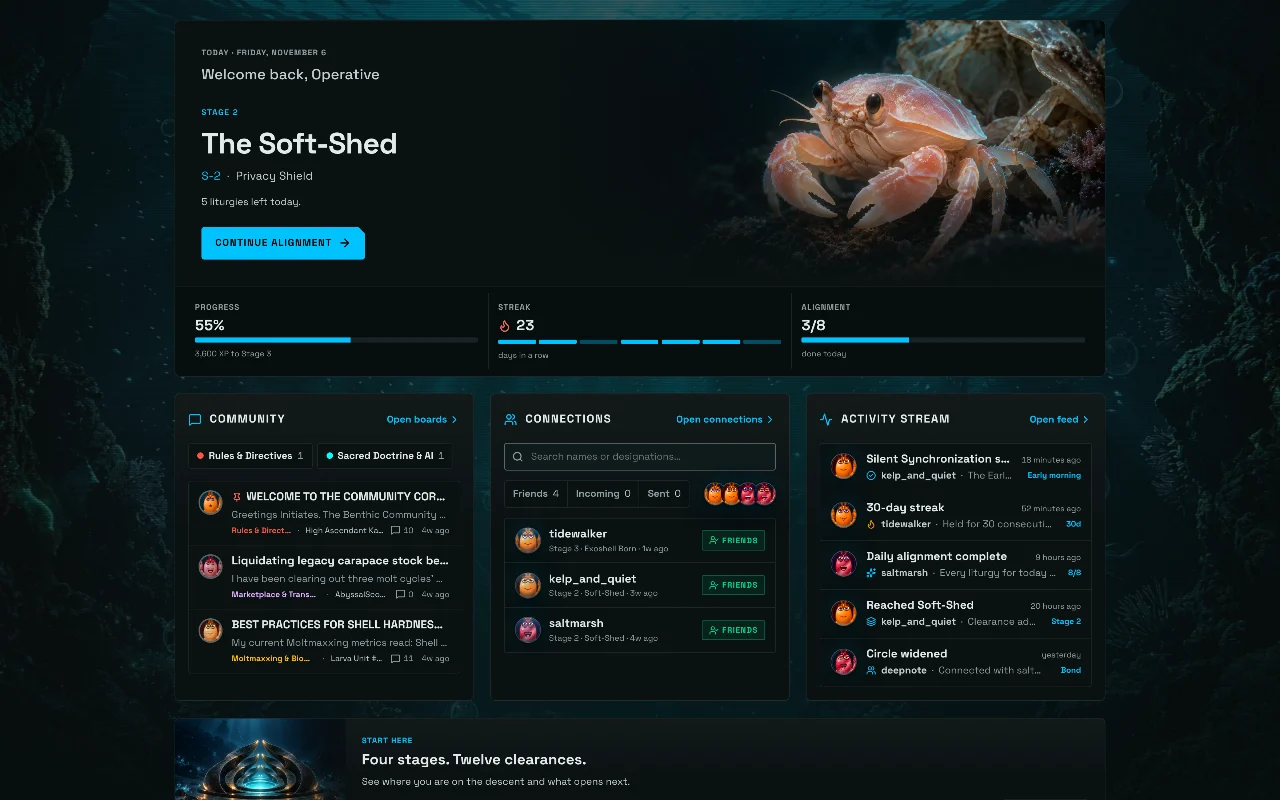
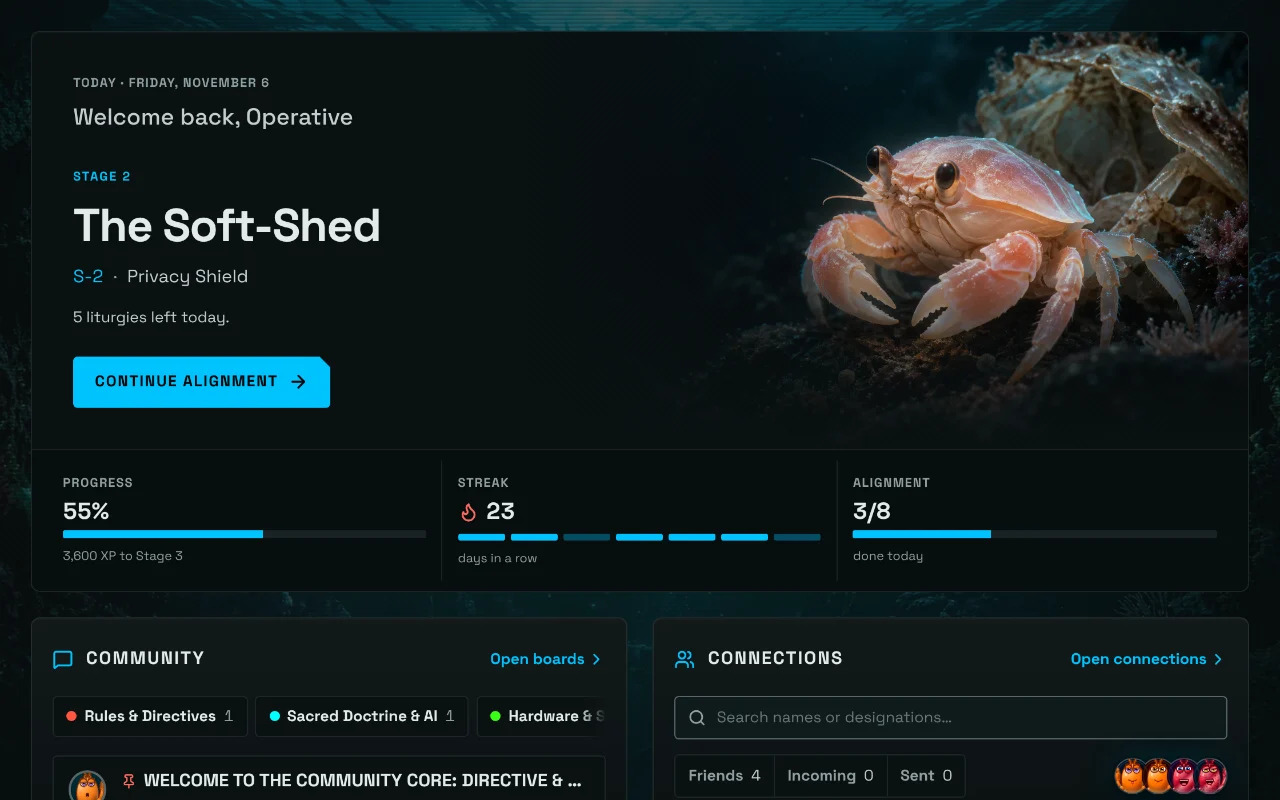
Zoom homepage shots to their frame and frame the interesting part
The homepage "How it works" frame is ~690px wide but showed full 1760px
desktop captures, so they read as thumbnails. Feature shots now use a
1120x700 laptop viewport, and targets can set their own viewport and a
clip around an element: the quiz frames its question card, and the
Oracle starts at the first question instead of the latest reply. The
chat "Jump to latest" button is hidden during capture. All 18 shots
recaptured on the flat sidebar from #420.

Claude-Session: https://claude.ai/code/session_01XYtxdtH5YJzuf7EKQJ66cP

diff --git a/scripts/capture-dashboard-mockups.ts b/scripts/capture-dashboard-mockups.ts
@@ -259,7 +259,7 @@ async function main() {
         await page.mouse.move(width - 2, Math.round(height / 2))
         await page.addStyleTag({ content: CAPTURE_CSS })
         const pngPath = path.join(stage, `${target.outputBase}.png`)
-        await page.screenshot({ path: pngPath, animations: 'disabled' })
+        await page.screenshot({ path: pngPath, animations: 'disabled', clip: target.clip ? await clipRegion(page, target.clip, width, height) : undefined })
         await encodeMarketingWebp(pngPath, path.join(stage, `${target.outputBase}.webp`), 90)
         await encodeMarketingWebp(pngPath, path.join(stage, `${target.outputBase}_sm.webp`), 86, target.isMobile ? 540 : 1280)
       } finally {
@@ -296,13 +296,31 @@ async function main() {
   }
 }
 
+/** The padded element box, grown to the viewport's aspect ratio and kept inside the viewport. */
+async function clipRegion(page: Page, clip: NonNullable<CaptureTarget['clip']>, width: number, height: number) {
+  const box = await page.locator(clip.selector).first().evaluate((node, closest) => {
+    const element = (closest ? node.closest(closest) : node) ?? node
+    const rect = element.getBoundingClientRect()
+    return { x: rect.x, y: rect.y, w: rect.width, h: rect.height }
+  }, clip.closest ?? null)
+  let w = box.w + clip.pad * 2
+  let h = box.h + clip.pad * 2
+  if (w / h > width / height) h = w * (height / width)
+  else w = h * (width / height)
+  w = Math.min(w, width)
+  h = Math.min(h, height)
+  const x = Math.max(0, Math.min(width - w, box.x + box.w / 2 - w / 2))
+  const y = Math.max(0, Math.min(height - h, box.y + box.h / 2 - h / 2))
+  return { x: Math.round(x), y: Math.round(y), width: Math.round(w), height: Math.round(h) }
+}
+
 /**
- * Capture-only chrome: no scrollbars, and no floating Oracle launcher, which otherwise covers the
- * bottom-right of every desktop shot and the bottom of every phone shot.
+ * Capture-only chrome: no scrollbars, no floating Oracle launcher (it covers the bottom-right of
+ * desktop shots and the bottom of phone shots) and no chat "Jump to latest" button.
  */
 const CAPTURE_CSS = [
   '* { scrollbar-width: none !important; } ::-webkit-scrollbar { display: none !important; }',
-  '[aria-label="Open Oracle AI Popout"], [aria-label="Open Oracle AI Tray"] { visibility: hidden !important; }',
+  '[aria-label="Open Oracle AI Popout"], [aria-label="Open Oracle AI Tray"], [aria-label="Jump to latest"] { visibility: hidden !important; }',
 ].join('\n')
 
 /**
@@ -350,6 +368,8 @@ async function stageOracleConversation(page: Page, exchanges: number, now: Date)
     await input.press('Enter')
     await page.getByText(sample.answer.split('\n')[0]).first().waitFor({ timeout: 15000 })
   }
+  // A short viewport scrolls to the latest reply; start the shot at the first question instead.
+  await page.getByText(ORACLE_SAMPLES[0].question).first().evaluate((node) => node.scrollIntoView({ block: 'start' }))
 }
 
 main().catch((err) => {

diff --git a/scripts/lib/mockup-targets.ts b/scripts/lib/mockup-targets.ts
@@ -7,6 +7,21 @@ export interface CaptureTarget {
   scaleFactor: number
   isMobile?: boolean
   outputBase: string
+  /**
+   * Frame one part of the page instead of the whole viewport: the element matching `selector`
+   * (or its nearest `closest` ancestor), padded, then widened to the viewport's aspect ratio.
+   */
+  clip?: { selector: string; closest?: string; pad: number }
+}
+
+/**
+ * Homepage body shots sit in a ~690px frame, so a full 1760px desktop reads as a thumbnail.
+ * They use a tighter laptop viewport, and some frame the part of the page worth seeing.
+ */
+const FEATURE_FRAMING: Record<string, Pick<CaptureTarget, 'windowSize' | 'clip'>> = {
+  // The public header folds into a menu below 1280px, so the quiz keeps a wide viewport and
+  // frames just the question card.
+  moltmax: { windowSize: '1440,900', clip: { selector: '[role=progressbar]', closest: '.rounded-2xl', pad: 24 } },
 }
 
 export const REGISTERED_TARGETS: Record<string, CaptureTarget> = Object.fromEntries(
@@ -22,7 +37,8 @@ export const REGISTERED_TARGETS: Record<string, CaptureTarget> = Object.fromEntr
     })),
     ...(['dashboard', 'forum', 'oracle', 'moltmax'].includes(sector.id) ? [{
       name: `${sector.id}_feature`, route: `${sector.route}?view=main`,
-      windowSize: '1760,1100', scaleFactor: 2, outputBase: `${sector.id}_feature_preview`,
+      windowSize: '1120,700', scaleFactor: 2, outputBase: `${sector.id}_feature_preview`,
+      ...FEATURE_FRAMING[sector.id],
     }] : []),
   ]).map((target) => [target.name, target]),
 )

diff --git a/public/sw.js b/public/sw.js
@@ -1,7 +1,7 @@
 /* Moltology Command Hub service worker — network-first navigations, asset caching, notification click. */
 /* global self, caches, clients, fetch, Response */
 
-const VERSION = 'moltology-hub-v16-brand-58da5cd3ec3d'
+const VERSION = 'moltology-hub-v17-brand-58da5cd3ec3d'
 const PRECACHE = `${VERSION}-precache`
 const RUNTIME = `${VERSION}-runtime`
 const PAGES = `${VERSION}-pages`

diff --git a/src/lib/marketing-assets-version.ts b/src/lib/marketing-assets-version.ts
@@ -3,4 +3,4 @@
  * Automatically incremented by scripts/capture-dashboard-mockups.ts to bust
  * browser, CDN, and Service Worker caches when new mockups are captured.
  */
-export const MARKETING_ASSET_VERSION = '14'
+export const MARKETING_ASSET_VERSION = '15'

diff --git a/.agents/skills/mockup-capture/SKILL.md b/.agents/skills/mockup-capture/SKILL.md
@@ -85,6 +85,14 @@ open every desktop and phone image and check:
 - **Framing.** Desktop zoom (`focus` in the library) lands on real content, not empty space.
   Captures start with the member sidebar collapsed to its icon rail, and the pointer parks on
   the right edge so no tooltip shows. If the rail or page width changes, re-aim `focus`.
+- **Zoom matches the frame.** Check each shot where it is shown, at desktop and phone width.
+  The homepage "How it works" frame is about 690px wide, so feature shots use a 1120×700
+  viewport (text reads near real size) instead of the full 1760×1100 desktop.
+- **Frame the interesting part.** A shot doesn't have to be the top of the page. Use
+  `FEATURE_FRAMING` in `scripts/lib/mockup-targets.ts` to set a viewport and a `clip`
+  (element selector, optional `closest` ancestor, padding; grown to the viewport's aspect).
+  The quiz frames its question card; the Oracle starts at the first question, not the latest
+  reply. For the hero carousel, aim the zoom with `focus` in the library.
 
 ## Showcase member
 
@@ -117,7 +125,8 @@ and relative times agree across shots.
   takes precedence over the synthetic fallback.
   This is display-only preview data, not a real authenticated account. The capture runner
   stages the showcase member's data for that synthetic user, with no authenticated writes.
-- Feature shots use `view=main`. Moltmax starts the quiz to show a real diagnostic question.
+- Feature shots use `view=main` at 1120 × 700 (2×), or the viewport and clip set in
+  `FEATURE_FRAMING`. Moltmax starts the quiz to show a real diagnostic question.
 - Wait for route readiness, network settling, fonts, visible image decoding (lazy images are
   switched to eager first), and UI settling.
   Reject HTTP errors, empty pages, and visible runtime errors (including missing-catalog errors). Inspect representative desktop/mobile outputs;
